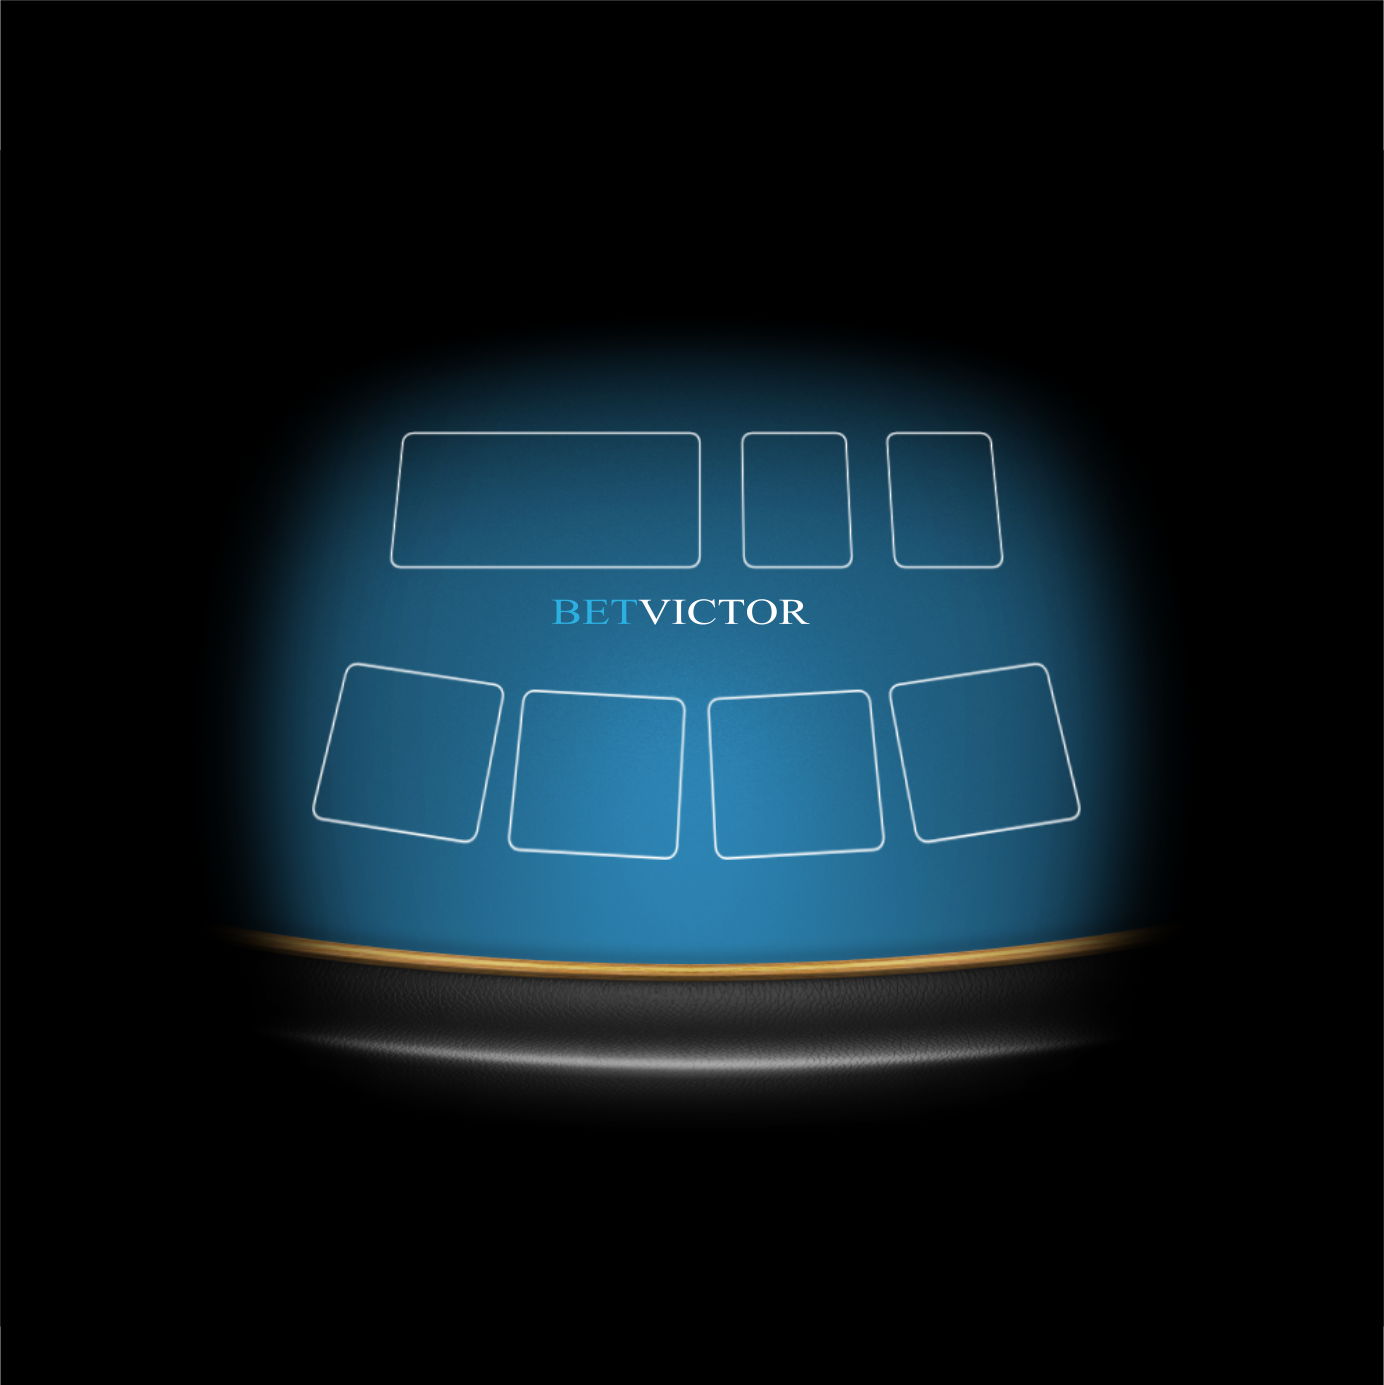
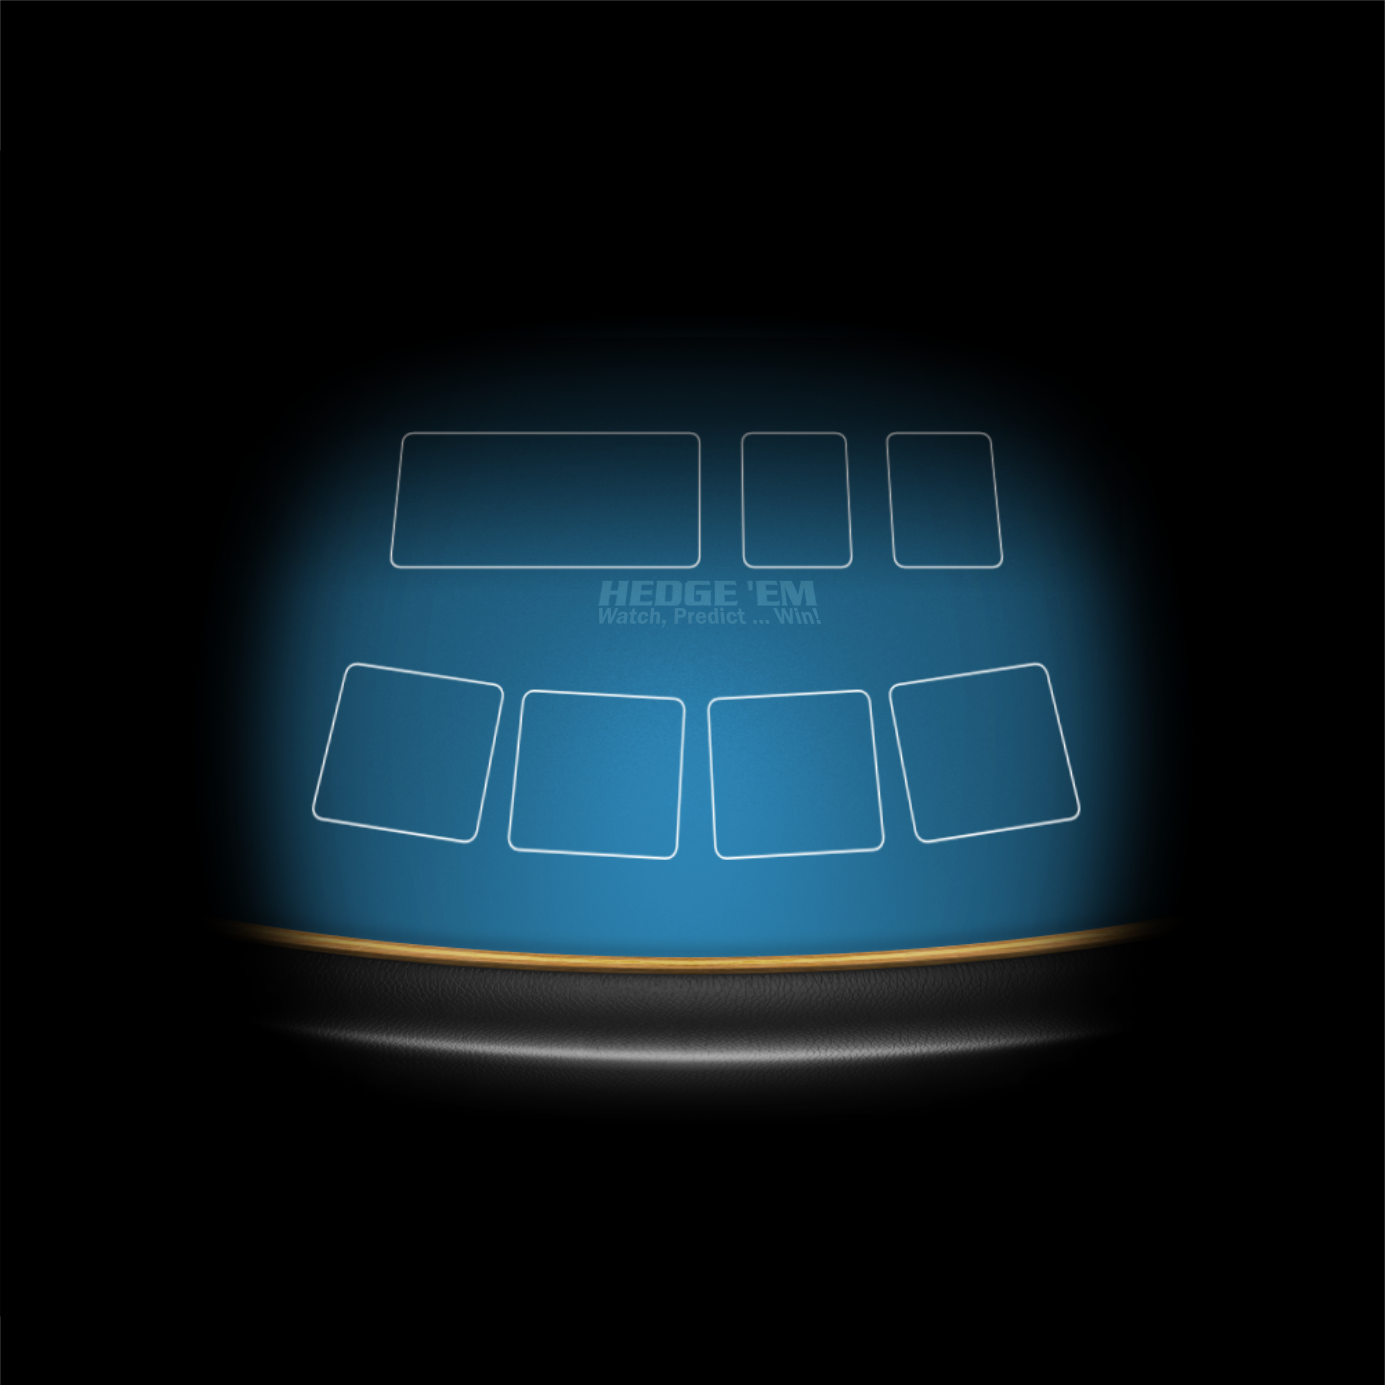
fix: correct table image, deal button position, portrait y-offset, orientation detection
- Landscape table: switch to tablel_hedgeem_blue.png (HEDGE 'EM branded 4-pocket)
  replacing BetVictor variant; hand positions (225,425,620) now align with felt pockets
- Portrait table: y=400 (JS client tablePosition) not canvas centre (512)
- Deal button: x=965,y=440 (JS client mobile theme buttons.js) not x=960,y=520
- Community card y: 136→120 to align with table felt outlines
- Orientation detection: window.screen.width/height (physical screen) not innerWidth/Height
  (innerHeight reduced by mobile browser chrome causing false portrait detection)
- Playwright: update clickDealButton to new game coords (965,440)

diff --git a/standalone_reference_client/src/scenes/GameScene.ts b/standalone_reference_client/src/scenes/GameScene.ts
@@ -27,8 +27,11 @@ const INITIAL_CREDITS = 10_000;
 // flat and as wide as hole cards if given the same size — using desktop sizes as interim fix.
 const CARD_W = 107;   // hole: 71 × 1.5
 const CARD_H = 150;   // hole: 100 × 1.5
-const COMM_W = 67;    // community: desktop width (designed for these positions)
-const COMM_H = 83;    // community: desktop height
+// Community cards are displayed smaller than hole cards to approximate table depth.
+// Without skewX perspective (HEDGE-73), the "correct" mobile theme size (107×125) looks flat/fat.
+// 67×83 (desktop theme) is used as an interim size pending HEDGE-73 implementation.
+const COMM_W = 67;
+const COMM_H = 83;
 
 // Tint values matching the original JS client
 const TINT_LIVE = 0xffffff;
@@ -56,12 +59,12 @@ const L_CARD_POSITIONS = [
   // Hand 4 (hidden in 3-handed mode)
   { x: 780, y: 384, angle: -8 },   // imgCard[6]
   { x: 830, y: 376, angle: -8 },   // imgCard[7]
-  // Community cards — mobile theme y=136
-  { x: 270, y: 136, angle: 0 },    // imgCard[8]  flop 1
-  { x: 375, y: 136, angle: 0 },    // imgCard[9]  flop 2
-  { x: 475, y: 136, angle: 0 },    // imgCard[10] flop 3
-  { x: 624, y: 136, angle: 0 },    // imgCard[11] turn
-  { x: 780, y: 136, angle: 0 },    // imgCard[12] river
+  // Community cards — y=120 aligns cards with felt outline on tablel_hedgeem_blue.png
+  { x: 270, y: 120, angle: 0 },    // imgCard[8]  flop 1
+  { x: 375, y: 120, angle: 0 },    // imgCard[9]  flop 2
+  { x: 475, y: 120, angle: 0 },    // imgCard[10] flop 3
+  { x: 624, y: 120, angle: 0 },    // imgCard[11] turn
+  { x: 780, y: 120, angle: 0 },    // imgCard[12] river
 ];
 const L_HAND_POSITIONS = [
   { x: 225, y: 380 }, // hand 1
@@ -150,7 +153,8 @@ export class GameScene extends Phaser.Scene {
     // Detect orientation and select layout. The canvas base resolution was already
     // set by main.ts (1024×640 landscape OR 640×1024 portrait) before Phaser booted,
     // and is updated by _checkOrientation on subsequent rotations.
-    this.isPortrait = window.innerHeight > window.innerWidth;
+    // Use screen.width/height (physical dimensions) not inner* (affected by browser chrome on mobile).
+    this.isPortrait = window.screen.height > window.screen.width;
     this._applyLayout(this.isPortrait);
     this._buildUI();
 
@@ -180,7 +184,7 @@ export class GameScene extends Phaser.Scene {
 
   /** Called on every window resize; rebuilds the scene if orientation flipped. */
   private _checkOrientation(): void {
-    const nowPortrait = window.innerHeight > window.innerWidth;
+    const nowPortrait = window.screen.height > window.screen.width;
     if (nowPortrait !== this.isPortrait) {
       // Resize the Phaser canvas BEFORE restarting so main.ts initial detect aligns.
       this._applyLayout(nowPortrait);
@@ -196,9 +200,12 @@ export class GameScene extends Phaser.Scene {
   private _buildUI(): void {
     const { width, height } = this.scale;
 
-    // Table background — landscape or portrait variant, centred on the design canvas
+    // Table background — landscape or portrait variant.
+    // Landscape: centred at (512, 320) — canvas centre, matches JS client tablePosition.
+    // Portrait: centred at (320, 400) — matches JS client tablePosition (NOT canvas centre 512).
     const tableKey = this.isPortrait ? 'tablep' : 'table';
-    this.add.image(width / 2, height / 2, tableKey);
+    const tableY = this.isPortrait ? 400 : height / 2;
+    this.add.image(width / 2, tableY, tableKey);
 
     // Hand panel images — positions from current layout (landscape or portrait)
     for (let i = 0; i < NUMBER_OF_HANDS; i++) {
@@ -247,9 +254,9 @@ export class GameScene extends Phaser.Scene {
     }
 
     // Deal and Advance button positions differ by orientation.
-    // Landscape: right side, matching JS client (x=960, y=520 on 1024×640).
-    // Portrait: bottom-right, within the 640-wide canvas.
-    const dealBtnPos    = this.isPortrait ? { x: 560, y: 940 } : { x: 960, y: 520 };
+    // Landscape: JS client mobile theme buttons.js — deal: x=965, y=440.
+    // Portrait: estimated bottom area within 640×1024 canvas.
+    const dealBtnPos    = this.isPortrait ? { x: 560, y: 940 } : { x: 965, y: 440 };
     const advanceBtnPos = this.isPortrait ? { x: 400, y: 940 } : { x: 874, y: 290 };
 
     // Deal button — frame 0 of spritesheet (256×256 = 2×2 grid of 128×128 frames)

diff --git a/standalone_reference_client/src/scenes/PreloadScene.ts b/standalone_reference_client/src/scenes/PreloadScene.ts
@@ -16,8 +16,9 @@ export class PreloadScene extends Phaser.Scene {
     // Card spritesheet: 980×768, 98×128 per frame, 10 cols × 6 rows = 60 frames (52 cards + back at 52)
     // cards_orange.png = default brand (BRAND="" in JS client, live at hedgeem.qeetoto.com)
     this.load.spritesheet('cards', 'cards_orange.png', { frameWidth: 98, frameHeight: 128 });
-    // Landscape table (1385×1385): 3-handed HedgeEm blue variant
-    this.load.image('table', 'tablel_hedgeem_blue_three_hand.png');
+    // Landscape table (1385×1385): standard HedgeEm blue — matches JS client (tablel_hedgeem_blue.png).
+    // JS client uses this same image regardless of hand count; N-handed mode just renders N of the 4 pockets.
+    this.load.image('table', 'tablel_hedgeem_blue.png');
     // Portrait table (1385×1385): same brand, portrait-orientation oval table
     this.load.image('tablep', 'tablep_hedgeem_blue.png');
     // dealbutton.png is a 256×256 spritesheet: 2×2 grid of 128×128 frames (normal/hover/pressed/dim)

diff --git a/standalone_reference_client/src/main.ts b/standalone_reference_client/src/main.ts
@@ -11,7 +11,8 @@ import { PreloadScene } from './scenes/PreloadScene';
 import { GameScene } from './scenes/GameScene';
 
 // Initial canvas size — GameScene reconfigures this on orientation change.
-const isPortrait = window.innerHeight > window.innerWidth;
+// Use screen.width/height (physical) not inner* (affected by mobile browser chrome).
+const isPortrait = window.screen.height > window.screen.width;
 
 const config: Phaser.Types.Core.GameConfig = {
   type: Phaser.AUTO,

diff --git a/standalone_reference_client/tests/e2e/smoke.spec.ts b/standalone_reference_client/tests/e2e/smoke.spec.ts
@@ -25,7 +25,8 @@ async function clickDealButton(page: import('@playwright/test').Page) {
   const canvas = page.locator('canvas');
   const box = await canvas.boundingBox();
   if (!box) throw new Error('Canvas not found');
-  const { x, y } = gameToPage(box, 960, 520);
+  // Deal button: JS client mobile theme buttons.js x=965, y=440 on 1024×640 canvas
+  const { x, y } = gameToPage(box, 965, 440);
   await page.mouse.click(x, y);
 }
 
